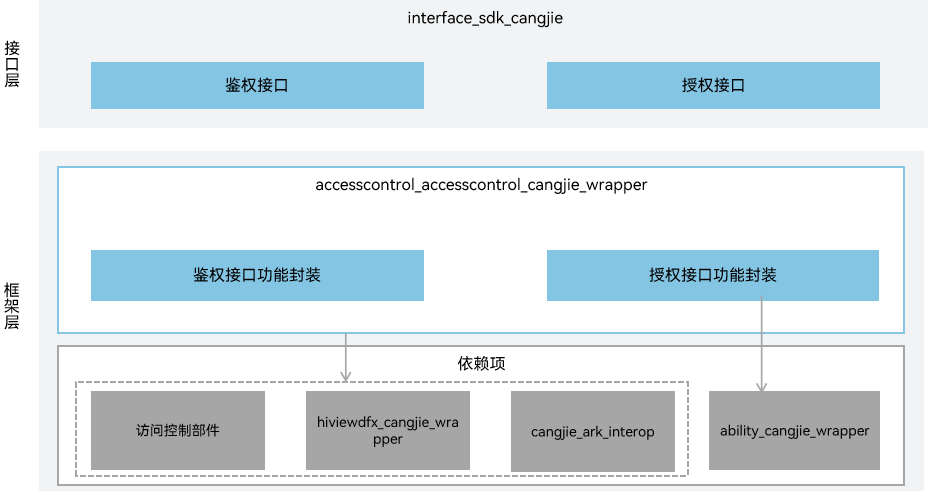
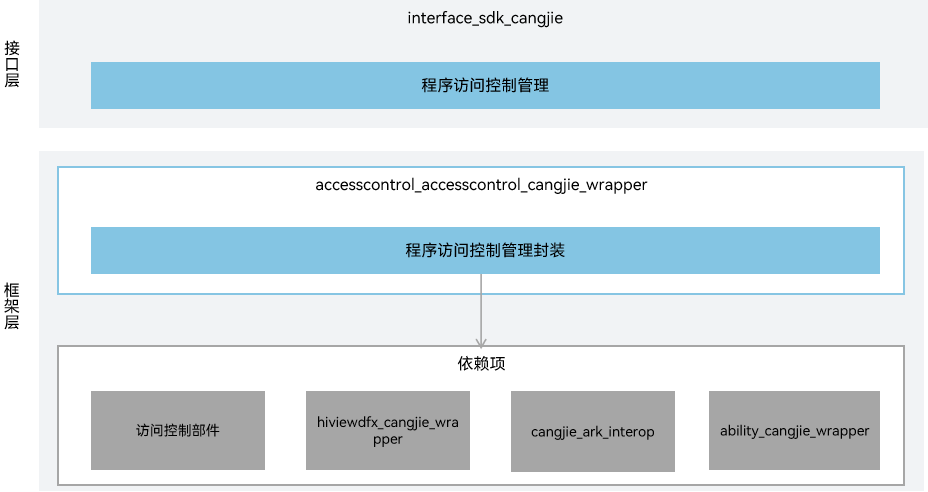
fix_readme

diff --git a/README_zh.md b/README_zh.md
@@ -14,13 +14,15 @@
 
 接口层：
 
-- 鉴权接口：面向开发者提供的鉴权API，开发者可查看应用是否被授权。
-- 授权接口：面向开发者提供的授权API，开发者可请求用户授权，并返回此次权限申请的结果。访问控制提供应用程序的权限校验和管理能力。
+- 程序访问控制管理：包含鉴权接口和授权接口。
+  - 鉴权接口：面向开发者提供的鉴权API，开发者可查看应用是否被授权。
+  - 授权接口：面向开发者提供的授权API，开发者可请求用户授权，并返回此次权限申请的结果。访问控制提供应用程序的权限校验和管理能力。
 
 框架层：
 
-- 鉴权接口功能封装：封装checkAccessToken接口，实现鉴权能力。
-- 授权接口功能封装：封装requestPermissionsFromUser接口，实现授权能力。
+- 程序访问控制管理封装：为鉴权接口和授权接口的封装实现。
+  - 鉴权接口功能封装：封装checkAccessToken接口，实现鉴权能力。
+  - 授权接口功能封装：封装requestPermissionsFromUser接口，实现授权能力。
 
 架构图中的依赖部件引入说明：
 
@@ -37,7 +39,7 @@
 base/accesscontrol/accesscontrol_cangjie_wrapper
 ├── figures                       # 存放README中的架构图
 ├── ohos                          # 仓颉访问控制接口
-│   ├── ability_access_ctrl       # 仓颉访问控制管理接口
+│   ├── ability_access_ctrl       # 仓颉程序访问控制管理接口
 │   └── security                  # 权限请求结果对象
 └── test                          # 仓颉测试代码
     └── ability_access_ctrl       # 仓颉访问控制管理接口测试代码
@@ -48,15 +50,8 @@ base/accesscontrol/accesscontrol_cangjie_wrapper
 
 访问控制仓颉接口提供以下功能，开发者可以根据诉求使用：
 
-  - 访问控制提供应用程序的权限校验和管理能力。开发者可通过提供的接口申请和查看应用权限。
-  - 权限请求结果对象可以在用户调用接口申请权限时返回此次权限申请的结果。
+  - 访问控制提供应用程序的权限校验和管理能力。开发者可通过提供的接口申请和查看应用权限。相关示例请参见[向用户申请授权](https://gitcode.com/openharmony-sig/arkcompiler_cangjie_ark_interop/blob/master/doc/Dev_Guide/source_zh_cn/security/AccessToken/cj-request-user-authorization.md)。
 
-
-与ArkTS提供的API能力相比，暂不支持以下功能：
-
-  - 查询应用权限状态。
-  - 拉起全局开关设置。
-  - 二次拉起权限设置弹窗。
 
 访问控制相关API请参见[仓颉访问控制API文档](https://gitcode.com/openharmony-sig/arkcompiler_cangjie_ark_interop/blob/master/doc/API_Reference/source_zh_cn/apis/AbilityKit/cj-apis-ability_access_ctrl.md)，相关指导请参见[访问控制概述](https://gitcode.com/openharmony-sig/arkcompiler_cangjie_ark_interop/blob/master/doc/Dev_Guide/source_zh_cn/security/AccessToken/cj-access-token-overview.md)。
 

diff --git a/README.md b/README.md
@@ -14,13 +14,15 @@ As shown in the architecture diagram:
 
 interface: Provides APIs for developers.
 
-- checkAccessToken: accesscontrol_cangjie_wrapper provides permission verification and management capabilities for applications. Developers can check whether an application has been authorized.
-- requestPermissions: Developers can request user authorization, and the result of this permission application will be returned.
+- abilityAcessCtrl:
+  - checkAccessToken: accesscontrol_cangjie_wrapper provides permission verification and management capabilities for applications. Developers can check whether an application has been authorized.
+  - requestPermissions: Developers can request user authorization, and the result of this permission application will be returned.
 
 frameworks:
 
-- checkAccessToken wrapper: Encapsulates the checkAccessToken interface, providing developers with the ability to check whether an application has been authorized.
-- requestPermissions wrapper: Encapsulates the requestPermissionsFromUser interface, providing developers with the ability to request permissions from users.
+- abilityAcessCtrl wrapper:
+  - checkAccessToken wrapper: Encapsulates the checkAccessToken interface, providing developers with the ability to check whether an application has been authorized.
+  - requestPermissions wrapper: Encapsulates the requestPermissionsFromUser interface, providing developers with the ability to request permissions from users.
 
 Dependency Component Introduction in Architecture:
 
@@ -47,8 +49,7 @@ base/accesscontrol/accesscontrol_cangjie_wrapper
 
 The following features are provided:
 
-  - The AbilityAccessCtrl module provides APIs for application permission management, including authentication and authorization.
-  - The PermissionRequestResult module defines the permission request result returned by requestPermissionsFromUser.
+  - The AbilityAccessCtrl module provides APIs for application permission management, including authentication and authorization. For relevant guidance, please refer to [Requesting User Authorization](https://gitcode.com/openharmony-sig/arkcompiler_cangjie_ark_interop/blob/master/doc/Dev_Guide/source_en/security/AccessToken/cj-request-user-authorization.md).
 
 
 The following features are not provided yet:
